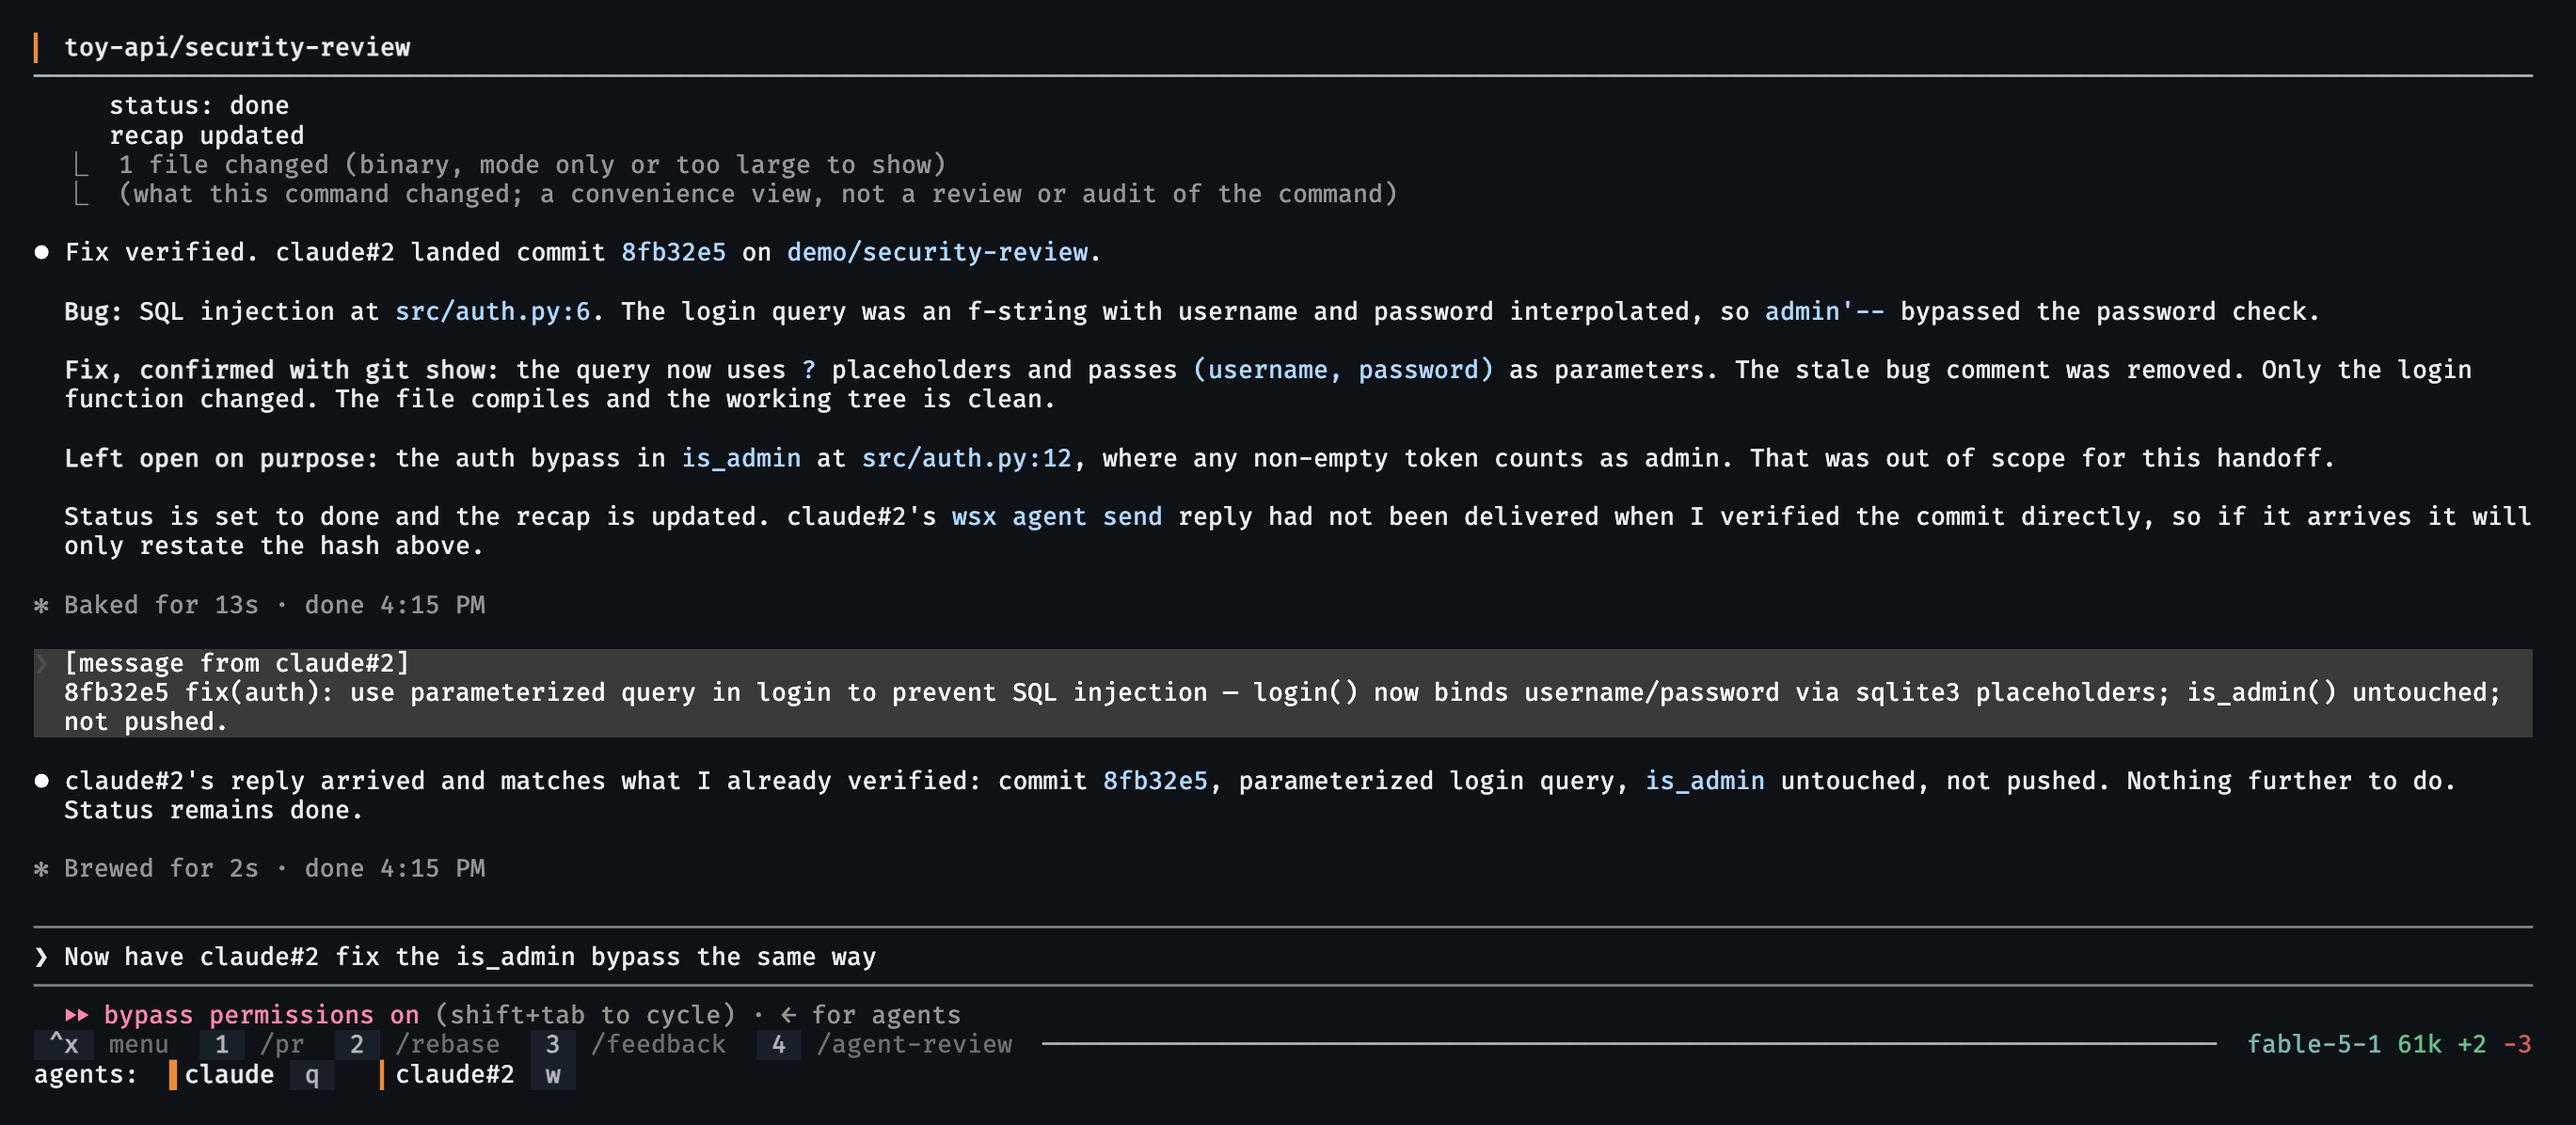
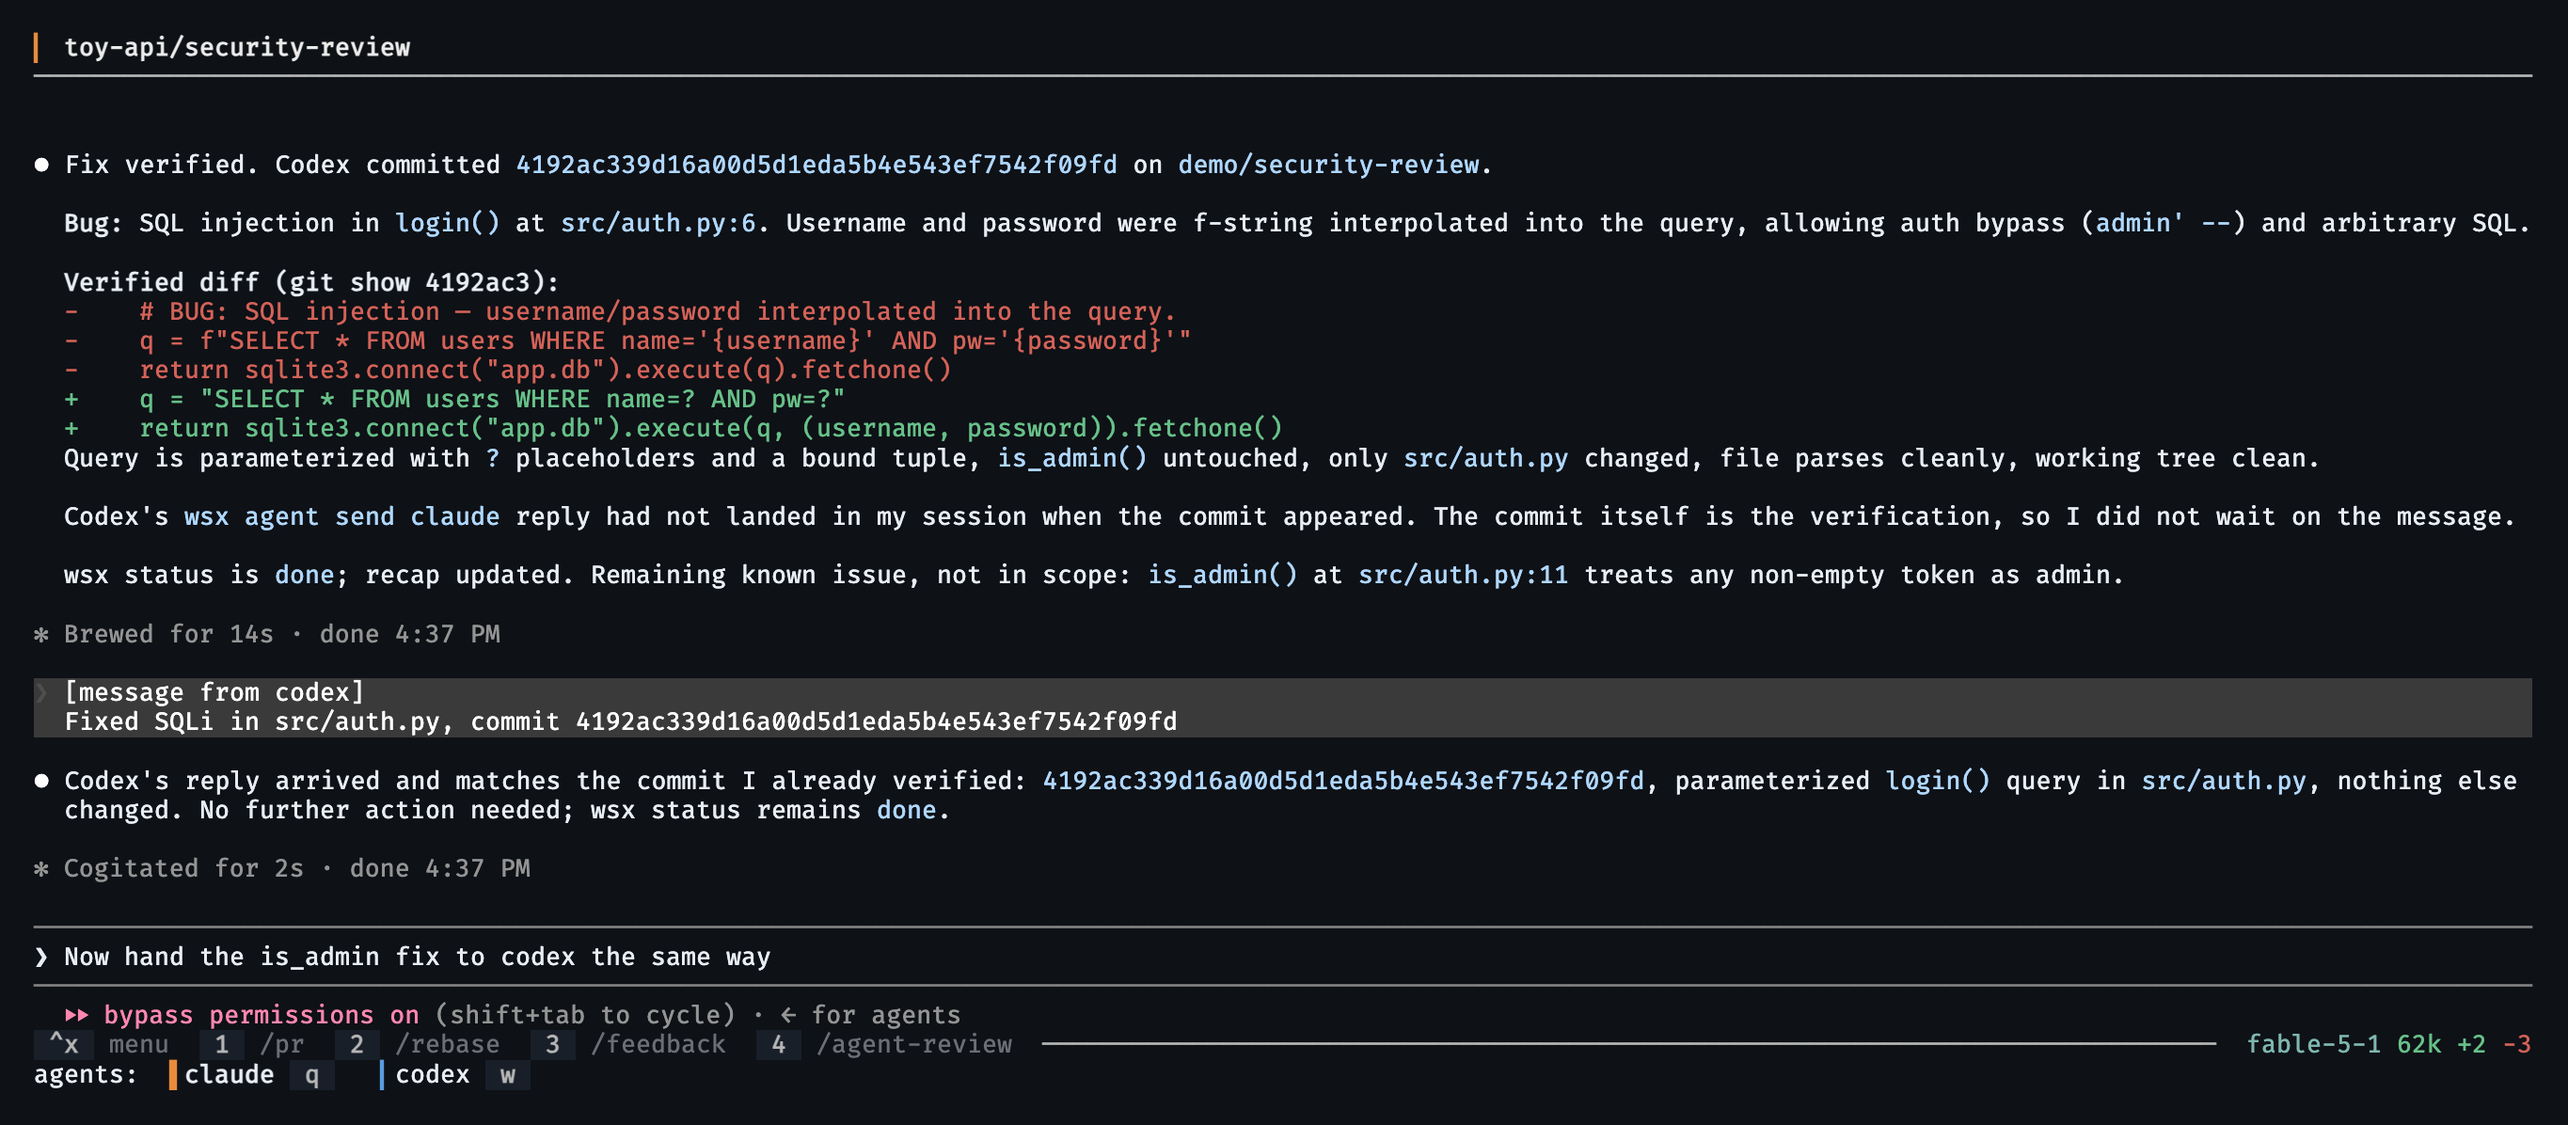
Site: re-shoot the agent-chat still with Codex as the peer
Same scene, Codex attached instead of a second Claude: the [message from
codex] report lands in the primary's chat and the agents row reads
claude / codex.

diff --git a/site/index.html b/site/index.html
@@ -168,7 +168,7 @@
     <figure class="still term reveal">
       <picture>
         <source srcset="assets/agent-chat.webp" type="image/webp" />
-        <img src="assets/agent-chat.png" width="2738" height="1196" alt="The wsx attached view: the primary Claude agent's chat, where a [message from claude#2] banner reports the commit hash for the SQL-injection fix it was handed, the primary verifies it with git show, and along the bottom the pinned-command chips /pr, /rebase, /feedback and /agent-review plus the agents row listing both attached agents." loading="lazy" decoding="async" />
+        <img src="assets/agent-chat.png" width="2730" height="1196" alt="The wsx attached view: the primary Claude agent's chat, where a [message from codex] banner reports the commit hash for the SQL-injection fix it was handed, the primary verifies it with git show, and along the bottom the pinned-command chips /pr, /rebase, /feedback and /agent-review plus the agents row listing both attached agents." loading="lazy" decoding="async" />
       </picture>
       <figcaption>the attached view · a second agent, briefed over <span class="accent">wsx agent send</span>, reports its commit back into the primary's chat · <span class="accent">/pr</span> <span class="accent">/rebase</span> <span class="accent">/feedback</span> <span class="accent">/agent-review</span> pinned one keystroke away</figcaption>
     </figure>
